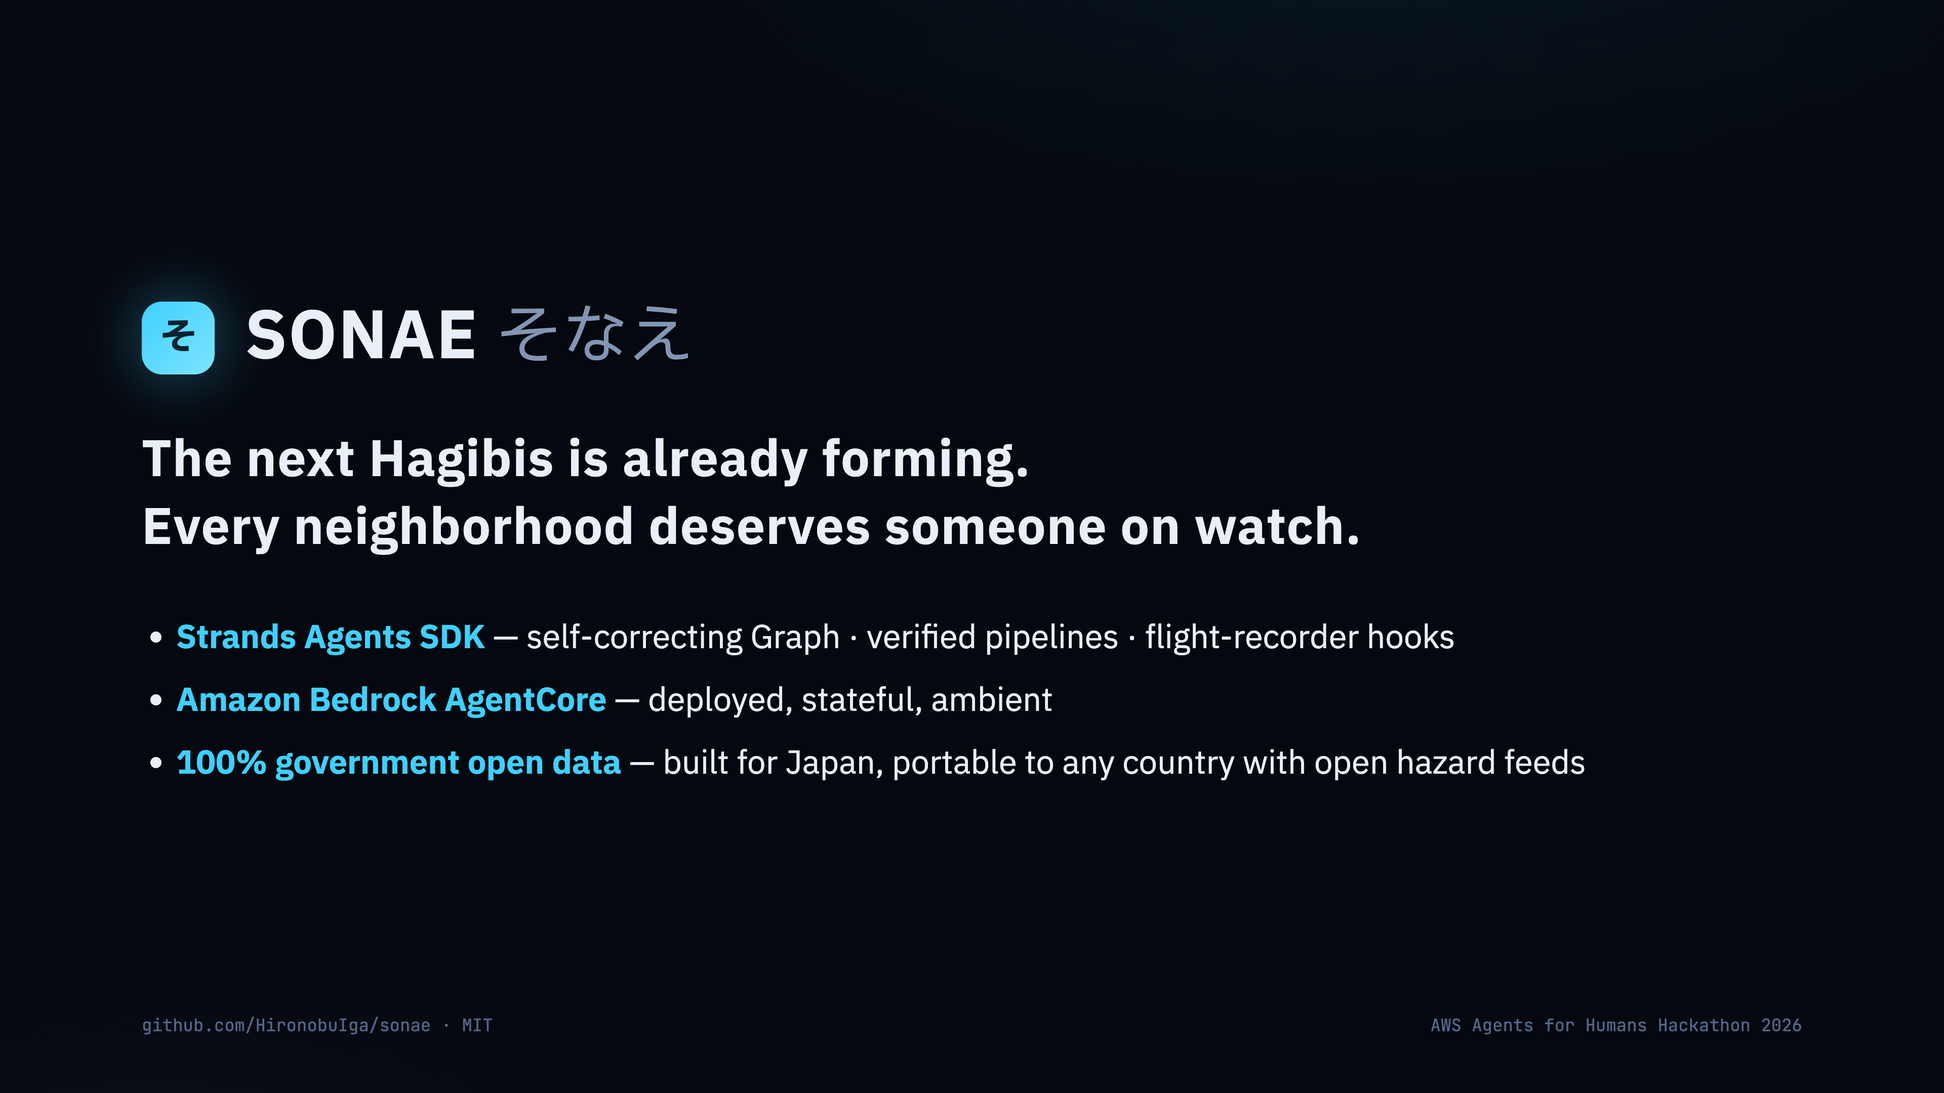
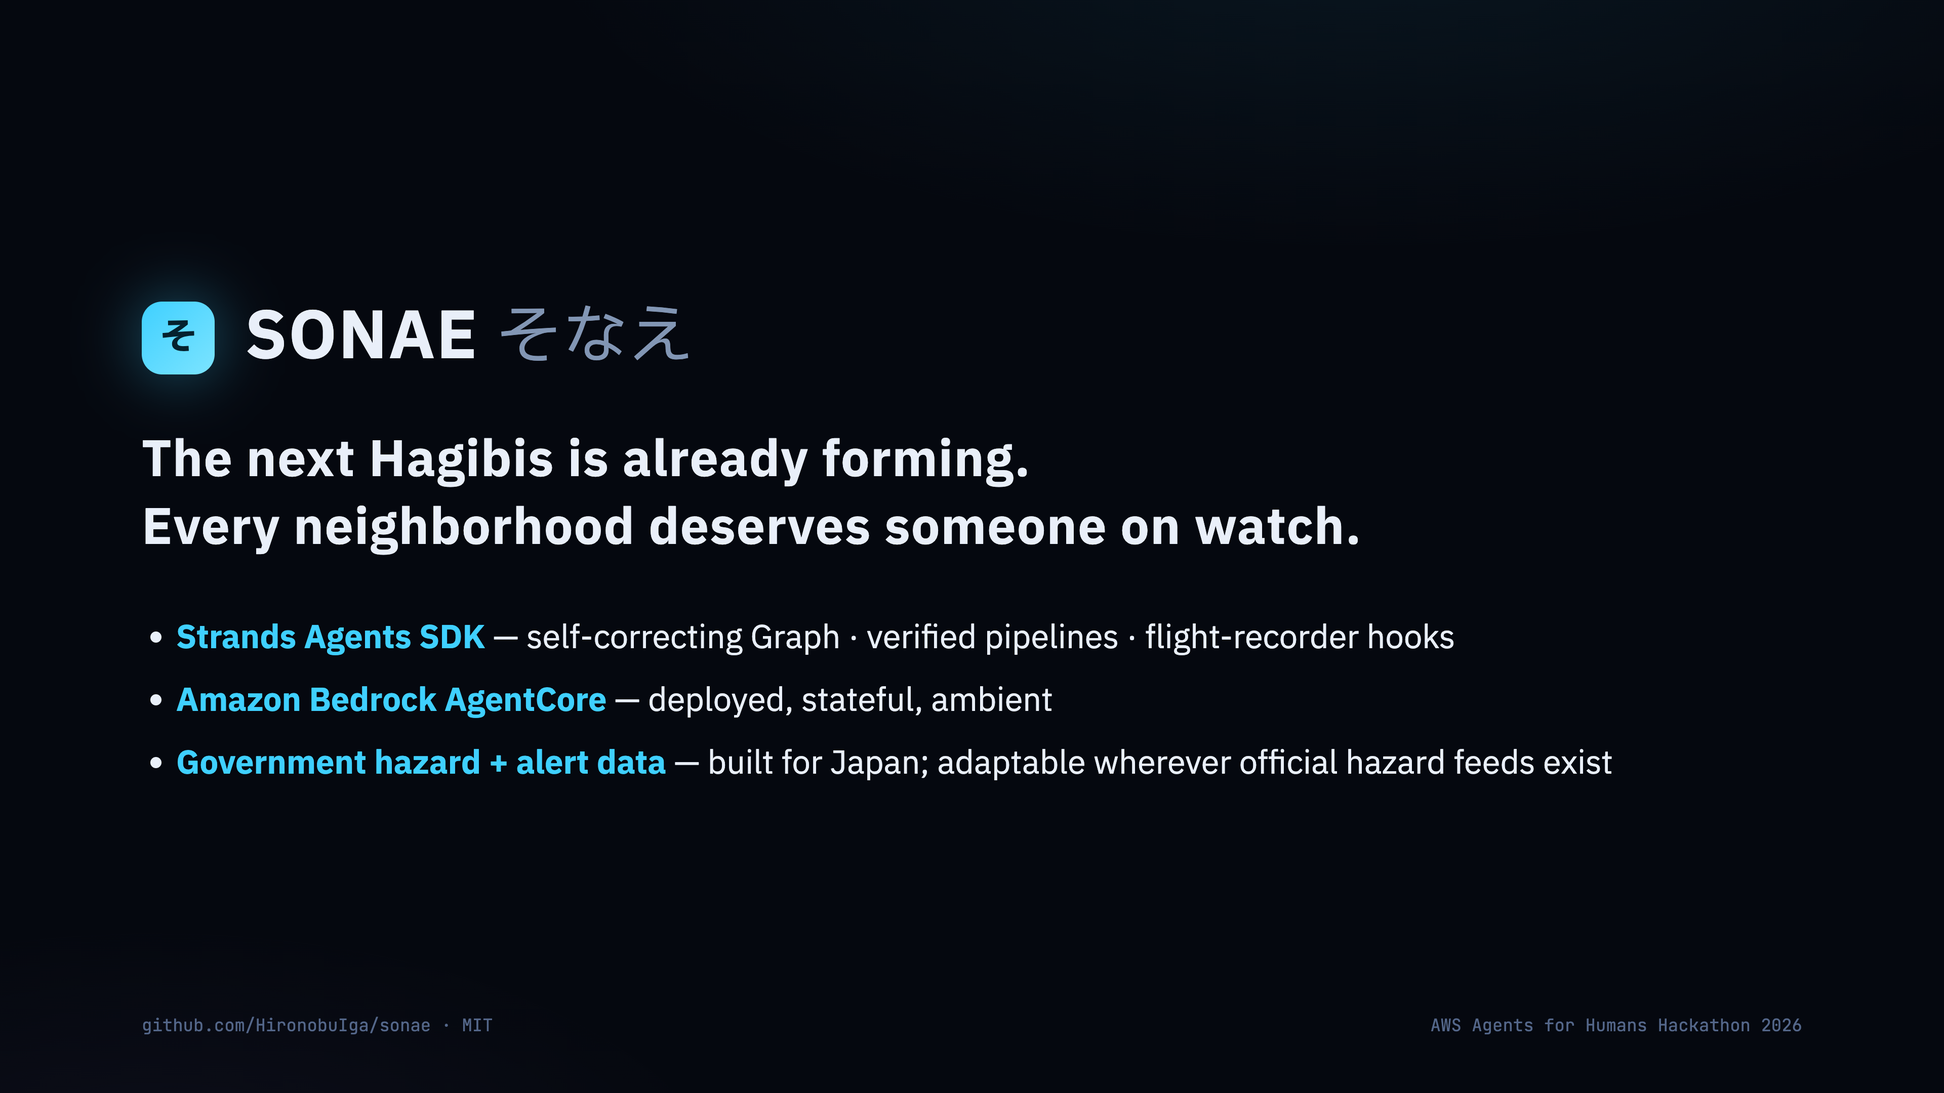
Video v3: fix the claims Codex caught, correct the AWS diagram, add the beat
An independent review of the video (script, slides, and the committed artifacts
they quote) found four claims that would not survive a careful judge, plus a
stale architecture diagram.

Factual corrections:
- 15:31 does not exist. The replay moment is 15:30, so the lead over the 23:40
  emergency order is 8 h 10 m, not 8 h 09 m. Fixed in the narration, slide 5,
  README, Devpost and the demo script.
- 23:40 was not the first instruction to evacuate Hoyasu: the city issued an
  避難勧告 at 18:00. Slide 4 now carries that row and the narration says
  "escalates", so the counterfactual is measured against the real chronology.
- The coordinator report routes the chairman to Kazuo first (he cannot walk),
  then to Isamu, 88. The narration said the 88-year-old was first. Corrected to
  the order the committed report actually produces.
- The level_clamped entry is from an earlier run in the accumulated journal, not
  from the filmed one. Both the narration and slide 6 now say so.
- "None of this is staged" hid that the family is invented and the outcome is a
  counterfactual. s13 now opens "Historical replay, real pipeline, invented
  family", slide 5 labels the card COUNTERFACTUAL · DEMO FAMILY, and slide 6
  says "labeled excerpts" rather than claiming every line is a literal quote.

Scope corrections: "no municipality had issued one" → no Nagano City order for
this district; the 20:50 bulletin reports overtopping that began at 20:23;
[…]

Changed region(s): [[0.0938, 0.6824, 0.8438, 0.7134]]

diff --git a/docs/video/slides.html b/docs/video/slides.html
@@ -66,7 +66,7 @@
     <li>Find which evacuation site is designated for <b>which</b> hazard — they differ</li>
     <li>Negotiate it with your family, then keep it current</li>
   </ul>
-  <h1 style="margin-top:56px;font-size:52px;color:var(--amber)">Homework assigned to every household in Japan.<br>It waits until the river is rising.</h1>
+  <h1 style="margin-top:56px;font-size:52px;color:var(--amber)">Homework Japan asks of every household.<br>It waits until the river is rising.</h1>
 </section>
 
 <!-- 3: who dies -->
@@ -77,52 +77,54 @@
   <h2 style="margin-top:40px;max-width:1500px;line-height:1.7">The hardest case is the one millions live with:<br>
   an aging parent, alone in the family home, hours away.<br>
   <span class="ja">— 東京の息子は、実家の裏の川の水位を知らない。</span></h2>
-  <div class="foot"><span>2019 East Japan Typhoon ≈65% · July 2020 heavy rain ≈79% — Cabinet Office / MHLW</span><span></span></div>
+  <div class="foot"><span>≈65% 2019 East Japan Typhoon · ≈79% July 2020 heavy rain — MHLW 001075647.pdf · Cabinet Office FY2021 白書</span><span></span></div>
 </section>
 
 <!-- 4: the night -->
 <section class="slide" data-n="4" style="justify-content:center">
   <div class="kicker">OCTOBER 12, 2019 — TYPHOON HAGIBIS · CHIKUMA RIVER, NAGANO</div>
   <div class="ts"><span class="time" style="color:var(--amber)">15:30</span>
-    <span class="what">大雨特別警報 — first ever issued for Nagano Prefecture<small>Sunset is at 17:16. This is the last full-daylight window.</small></span></div>
+    <span class="what">大雨特別警報 — first ever issued for Nagano Prefecture<small>Sunset 17:16 (NAOJ). The last full-daylight window.</small></span></div>
+  <div class="ts"><span class="time" style="color:#ffb703">18:00</span>
+    <span class="what">Evacuation advisory (避難勧告) for the riverside, incl. Hoyasu<small>Level 4 equivalent — 2½ hours after the emergency warning.</small></span></div>
   <div class="ts"><span class="time" style="color:var(--red)">23:40</span>
-    <span class="what">Emergency evacuation order (避難指示・緊急)<small>Darkness. Driving rain. Yoshiko's family says her knees triple the walk.</small></span></div>
+    <span class="what">Escalated to emergency evacuation order (避難指示・緊急)<small>Darkness. Yoshiko's family says her knees triple the walk.</small></span></div>
   <div class="ts"><span class="time" style="color:#ff5a5a">01:08</span>
-    <span class="what">The river overtops the bank at Hoyasu — the district floods to roof height<small>Breach announced 06:00. Chronology: Nagano City verification report, pp.24–28</small></span></div>
+    <span class="what">The river overtops the bank at Hoyasu — the district floods to roof height<small>Breach announced 06:00. Nagano City verification report pp.24–28 · damage overview ch.2</small></span></div>
   <h1 style="font-size:46px;margin-top:44px;max-width:1600px">The information was public the whole time.<br>
   <span style="color:var(--cyan)">What families lacked was an agent on watch.</span></h1>
 </section>
 
 <!-- 5: counterfactual -->
 <section class="slide" data-n="5" style="justify-content:center">
-  <div class="kicker">SAME PUBLIC DATA · SAME NIGHT — REPLAYED MINUTE BY MINUTE</div>
+  <div class="kicker">SAME PUBLIC DATA · SAME NIGHT — REPLAYED EVENT BY EVENT</div>
   <div class="vs">
     <div class="card" style="border-color:#7e1f10">
       <h3>WHAT HAPPENED</h3>
       <div class="t" style="color:var(--red)">23:40</div>
-      <p>Emergency evacuation order reaches Hoyasu — in darkness, hours after the river was already overtopping upstream.</p>
+      <p>Emergency order reaches Hoyasu — in darkness, hours after the river was already overtopping upstream. The 18:00 advisory came first.</p>
     </div>
     <div class="card" style="border-color:var(--green)">
-      <h3>SONAE'S FAMILY</h3>
-      <div class="t" style="color:var(--green)">15:31</div>
+      <h3>COUNTERFACTUAL · DEMO FAMILY</h3>
+      <div class="t" style="color:var(--green)">15:30</div>
       <p>Verified, personal push at the emergency warning: <b>「今すぐ避難してください」</b> — grandmother walking to the flood-safe site in daylight.</p>
     </div>
   </div>
-  <h1 style="font-size:48px;margin-top:52px">8 h 09 m of warning lead — grounded in the official record.<br>
-  <span style="font-size:34px;color:var(--dim)">On the plan's own 90–120 min walking allowance, at the shelter by ~17:31 — about six hours before the order.</span></h1>
+  <h1 style="font-size:48px;margin-top:52px">8 h 10 m between the warning and the order — grounded in the official record.<br>
+  <span style="font-size:34px;color:var(--dim)">Counterfactual: leaving at 15:30, the plan's own 90–120 min allowance puts her at the shelter by ~17:30.</span></h1>
 </section>
 
 <!-- 6: verifier moment -->
 <section class="slide" data-n="6" style="justify-content:center">
-  <div class="kicker">THE TRUST LAYER — QUOTED FROM data/store/aoki/watch.json IN THIS REPO</div>
+  <div class="kicker">THE TRUST LAYER — LABELED EXCERPTS FROM data/store/aoki/watch.json IN THIS REPO</div>
   <div class="mono-log" style="font-size:21px;line-height:1.8">
-<span class="c"># 15:30, the pivotal push — the draft cited an order that was never issued</span>
+<span class="c"># 15:30, the pivotal push — the draft cited a Nagano City order for this district</span>
 <span class="bad">verification attempt 1: REJECTED</span> (12 checks)
    <span class="c">unsupported:</span> "Level 4 = <span class="bad">避難指示</span>" in the Cabinet Office citation note
    <span class="c">revision:</span> → "…<span class="ok">no 避難指示 was issued</span>; 大雨特別警報 triggers Level 4 per national guidance"
 <span class="ok">verification attempt 2: APPROVED</span> (12 checks) → <span class="k">3 notifications dispatched [verified ✓]</span>
 
-<span class="c"># 18:00 — the Sentinel claimed Level 5 on a Level 4 advisory (避難勧告)</span>
+<span class="c"># an EARLIER RUN in the same journal, 18:00 — Sentinel claimed Level 5 on a Level 4 advisory</span>
 <span class="bad">level_clamped:</span> sentinel_level <span class="bad">5</span> → supported_level <span class="ok">4</span>
    <span class="c"># a deterministic guard, not a model: the official wording is the ceiling.</span>
    <span class="c"># unclamped, a false Level 5 here would have swallowed the real one at 20:50.</span>
@@ -146,7 +148,7 @@
 
 $ aws bedrock-agentcore invoke-agent-runtime --payload <span class="k">{"action":"watch_cycle", …}</span>
 <span class="ok">{"processed_events": 0, "dispatched": 0, "note": "no new events"}</span>
-<span class="c"># EventBridge heartbeat · zero model tokens on a calm day · state durable in S3</span></div>
+<span class="c"># EventBridge→Lambda heartbeat, verified then paused · zero model tokens when no new events · state in S3</span></div>
   <h2 style="margin-top:40px">Boring is the job. The quiet path is the tested path.</h2>
 </section>
 
@@ -161,7 +163,7 @@ $ aws bedrock-agentcore invoke-agent-runtime --payload <span class="k">{"action"
   <ul class="pts" style="margin-top:44px">
     <li><b>Strands Agents SDK</b> — self-correcting Graph · verified pipelines · flight-recorder hooks</li>
     <li><b>Amazon Bedrock AgentCore</b> — deployed, stateful, ambient</li>
-    <li><b>100% government open data</b> — built for Japan, portable to any country with open hazard feeds</li>
+    <li><b>Government hazard + alert data</b> — built for Japan; adaptable wherever official hazard feeds exist</li>
   </ul>
   <div class="foot"><span>github.com/HironobuIga/sonae · MIT</span><span>AWS Agents for Humans Hackathon 2026</span></div>
 </section>

diff --git a/docs/architecture.html b/docs/architecture.html
@@ -59,7 +59,7 @@
 </head>
 <body>
 <h1><span class="mark">そ</span> SONAE — agent architecture <span style="color:var(--faint);font-size:12px;font-weight:400">Strands Agents SDK · Amazon Bedrock</span></h1>
-<div class="sub">Two verified pipelines over one household memory: a self-correcting planning graph (once, calmly) and an ambient watch loop (every 5 minutes, forever).</div>
+<div class="sub">Two verified pipelines over one household memory: a self-correcting planning graph (once, calmly) and an ambient watch loop (every 5 minutes when enabled).</div>
 
 <div class="grid">
   <div class="lane">
@@ -79,7 +79,7 @@
 
   <div class="lane">
     <h2>WATCH & ACT — VERIFIED PIPELINE</h2>
-    <div class="ja">常駐監視 · EventBridge heartbeat → AgentCore Runtime · replay = same pipeline</div>
+    <div class="ja">常駐監視 · EventBridge Scheduler → Lambda → AgentCore Runtime · replay = same pipeline</div>
     <div class="agent"><div class="ic c1">📡</div><div><b>Feed events</b>
       <small>Live JMA warnings for the home's exact warning area — or the Typhoon Hagibis replay reconstructed minute-by-minute from official post-event records.</small></div></div>
     <div class="arrow">new events only (dedup vs watch state)</div>
@@ -109,7 +109,7 @@
 </div>
 
 <div class="foot">
-  <div class="cloud"><b>Amazon Bedrock</b>Claude Sonnet 4.5 powers every agent; model-agnostic via Strands providers</div>
+  <div class="cloud"><b>Amazon Bedrock</b>Claude Sonnet 4.6 powers every agent; model-agnostic via Strands providers</div>
   <div class="cloud"><b>Bedrock AgentCore Runtime</b>hosts the team; EventBridge Scheduler heartbeat makes the Sentinel ambient</div>
   <div class="cloud"><b>Observability</b>Strands OpenTelemetry traces + per-household flight-recorder journal of every tool call & decision</div>
 </div>

diff --git a/docs/drawio_render.html b/docs/drawio_render.html
@@ -1,0 +1,13 @@
+<!doctype html><meta charset="utf-8">
+<body style="margin:0;background:#fff">
+<script type="text/plain" id="xmlsrc"></script>
+<div class="mxgraph" id="gfx" style="max-width:100%;border:0"></div>
+<script src="https://viewer.diagrams.net/js/viewer-static.min.js"></script>
+<script>
+fetch("architecture-aws.drawio").then(r=>r.text()).then(xml=>{
+  const cfg = {highlight:"#0000ff", nav:false, resize:true, toolbar:"", edit:null, xml:xml};
+  const el = document.getElementById("gfx");
+  el.setAttribute("data-mxgraph", JSON.stringify(cfg));
+  GraphViewer.processElements();
+});
+</script>

diff --git a/docs/video/build_video.py b/docs/video/build_video.py
@@ -23,7 +23,7 @@ AUDIO = HERE / "audio"
 WORK = HERE / "work"
 OUT = HERE / "sonae-demo.mp4"
 
-GAP = 0.45  # breathing room between segments (s)
+GAP = 0.8  # breathing room between segments (s) — a beat to absorb each one
 LEAD_IN = 0.6
 MIN_PER_VISUAL = 2.4
 FPS = 30

diff --git a/docs/video/shotlist.md b/docs/video/shotlist.md
@@ -1,0 +1,88 @@
+# Demo video shot list (generated — do not edit by hand)
+
+Runtime 4:57. Each segment's narration time is split evenly across its visuals.
+`slide_*` are rendered from slides.html; `cap_*` are screenshots of the live
+dashboard from the committed replay run.
+
+## s01 — 0:00 to 0:14  (13.5s, 35 words, 155 wpm)
+- [0:00] `slide_1.png` held 14.3s
+
+> Half past three, the day Typhoon Hagibis reached Nagano. Sonae tells one family to leave now. The city's emergency order for their street comes eight hours later. This is the agent team that stands watch.
+
+## s02 — 0:14 to 0:33  (17.6s, 45 words, 153 wpm)
+- [0:14] `slide_2.png` held 18.4s
+
+> Japan urges every household to prepare a personal evacuation timeline: who does what, at which official alert level. That means reading the hazard map for your address, finding which site is designated for which disaster, and agreeing who acts. The work itself is the barrier.
+
+## s03 — 0:33 to 0:48  (14.6s, 45 words, 185 wpm)
+- [0:33] `slide_3.png` held 15.4s
+
+> And the people least able to do that work are the ones who die. In Japan's recent floods, sixty five to eighty percent of the dead were aged sixty five or over. Often a parent, alone in the family home, hours away from their children.
+
+## s04 — 0:48 to 1:11  (22.2s, 54 words, 146 wpm)
+- [0:48] `slide_4.png` held 23.0s
+
+> Typhoon Hagibis, twenty nineteen. At fifteen thirty, Nagano's first ever emergency heavy rain warning. The riverside advisory came at eighteen hundred; the emergency order at twenty three forty, in darkness. At eight past one the river came over the bank at Hoyasu, and the district flooded to roof height. All of it was public.
+
+## s05 — 1:11 to 1:34  (21.8s, 49 words, 135 wpm)
+- [1:11] `cap_modal.png` held 7.5s
+- [1:19] `cap_plan.png` held 7.5s
+- [1:26] `cap_approve.png` held 7.5s
+
+> This is Sonae. One address, and a few sentences about your family. A Cartographer reads the statutory hazard maps. A Planner drafts the timeline, tuned to a grandmother's knees. An adversarial Verifier re-derives every claim from official data. You approve it once. From here, Sonae is authorized to act.
+
+## s06 — 1:34 to 1:46  (11.7s, 28 words, 143 wpm)
+- [1:34] `cap_l1.png` held 12.5s
+
+> Now the replay, driven event by event from the official record. The day before landfall: level one. Charge the phone. Pack the medication. While the sky is clear.
+
+## s07 — 1:46 to 2:06  (19.1s, 45 words, 142 wpm)
+- [1:46] `cap_l2.png` held 19.9s
+
+> Saturday afternoon, the river reaches advisory levels. Level two. And here the verifier earns its keep: the draft told the son to skip level three, then escalate to level three. A contradiction, in an instruction read while frightened. Rejected, corrected to level four, then sent.
+
+## s08 — 2:06 to 2:39  (31.8s, 79 words, 149 wpm)
+- [2:06] `cap_l4.png` held 16.3s
+- [2:22] `cap_l4_phones.png` held 16.3s
+
+> Half past three. The emergency heavy rain warning — formally level five for rainfall. But level five means protect yourself where you are, and the guidance is to finish evacuating while you can. So Sonae pushes the plan's level four step, approved in advance by the family. Complete the evacuation now. The draft cited a Nagano City order for this district; none existed yet. Rejected, corrected, sent. Sunset is seventeen sixteen — there is still light to walk in.
+
+## s09 — 2:39 to 2:59  (19.1s, 55 words, 173 wpm)
+- [2:39] `cap_standby.png` held 19.9s
+
+> Then, discipline. Bulletins the plan already covers; the Sentinel stands by through all of them. It is not always right alone. In an earlier run kept in the same journal, it read this level four advisory as level five — and a deterministic guard clamped it down. The model does not get the last word.
+
+## s10 — 2:59 to 3:13  (13.8s, 33 words, 143 wpm)
+- [2:59] `cap_l5.png` held 14.6s
+
+> The eight fifty bulletin reports upstream overtopping that began at twenty past eight. Level five. Confirm everyone is out, and nobody goes back in. The dashboard opens a check-in for each family member.
+
+## s11 — 3:13 to 3:33  (19.5s, 53 words, 163 wpm)
+- [3:13] `cap_breach.png` held 10.1s
+- [3:23] `slide_5.png` held 10.1s
+
+> Twenty three forty: the emergency evacuation order. At eight past one, the river came over the bank at their doorstep. Sonae's verified push went out at fifteen thirty — eight hours and ten minutes earlier. On the plan's own allowance, a family leaving then reaches the shelter by half past five, in daylight.
+
+## s12 — 3:33 to 3:50  (16.2s, 36 words, 134 wpm)
+- [3:33] `cap_circle.png` held 17.0s
+
+> After the water, Japanese neighborhoods confirm safety with paper name lists. Sonae replaces the paper, not the neighbors. It hands the chairman an ordered route: first Kazuo, who cannot walk; then Isamu, eighty eight, still unconfirmed.
+
+## s13 — 3:50 to 4:13  (21.6s, 51 words, 141 wpm)
+- [3:50] `slide_6.png` held 22.4s
+
+> Historical replay, real pipeline, invented family — every excerpt here is committed in the repository. An alert app broadcasts the same words to everyone. Sonae holds a plan the family approved, and binds official signals to it. Unverified prose is never sent. The official signal is relayed verbatim rather than silenced.
+
+## s14 — 4:13 to 4:41  (27.6s, 63 words, 137 wpm)
+- [4:13] `slide_9.png` held 9.5s
+- [4:22] `slide_10.png` held 9.5s
+- [4:32] `slide_7.png` held 9.5s
+
+> Under the hood: a self-correcting Strands graph builds the plan, a verified pipeline runs the watch, typed JSON between agents, flight recorder hooks on every tool call. Deployed on Amazon Bedrock AgentCore, state synced to S3, heartbeat through EventBridge and Lambda — verified, then paused. With no new events a cycle exits before a model is created. Zero tokens. Boring is the job.
+
+## s15 — 4:41 to 4:57  (14.6s, 35 words, 144 wpm)
+- [4:41] `slide_8.png` held 15.4s
+
+> Every hazard and alert input comes from public government data. Built for Japan, and adaptable wherever official hazard feeds exist. Sonae. Because the next Hagibis is already forming, and every family deserves someone on watch.
+
+**Total: 4:57 · 706 words · average 143 wpm**

diff --git a/README.md b/README.md
@@ -206,7 +206,7 @@ city-specific code.
 This is a counterfactual reconstructed from the replay, not an observed outcome for a real household.
 Run the replay and watch the timestamps. Nagano City's evacuation order for the riverside districts
 came at **23:40**, in darkness. In the replay, the 大雨特別警報 lands at **15:30** and Sonae's verified
-push goes out at **15:31** — **8 hours 9 minutes of warning lead** before the official order, and the
+push goes out at the same **15:30** replay moment — **8 hours 10 minutes of warning lead** before the emergency order, and the
 last clearly-daylight window of the day (sunset was 17:16 JST). The approved plan allows Yoshiko
 **90–120 minutes** to walk the 2.63 km to her flood-designated shelter, so on that timeline she is inside
 it around **17:31** — roughly a **6-hour safety margin** ahead of the order that the real residents of

diff --git a/docs/demo-script.md b/docs/demo-script.md
@@ -85,7 +85,7 @@ through the moments. Pace: linger where it matters.
   banks upstream. Level 5 — final confirmation that everyone is out, and no one goes back."
 - **10/12 23:40** (pause, let it land): "23:40. The official evacuation order. Darkness, driving
   rain. This is when the real residents of Hoyasu were told to leave. Sonae's push went out at
-  **15:31** — **eight hours and nine minutes** of warning lead, from the same public information.
+  **15:30** — **eight hours and ten minutes** of warning lead, from the same public information.
   The plan allows Yoshiko 90–120 minutes on foot, so on this timeline she is inside the shelter around
   half past five: about **six hours of safety margin**. To be clear about what you're watching —
   this is a counterfactual from the replay, not something that happened to anyone that night."

diff --git a/docs/devpost.md b/docs/devpost.md
@@ -103,7 +103,7 @@ decisions.
 - **Honesty in the demo.** We refused to stage a fictional disaster. Reconstructing the real
   official timeline made the demo stronger — and it is labelled for what it is: a counterfactual
   from the replay, not something that happened to anyone. In it, the verified push goes out at
-  **15:31**, 8 hours 9 minutes of warning lead ahead of the 23:40 order; with the plan's 90–120 minute
+  **15:30**, 8 hours 10 minutes of warning lead ahead of the 23:40 emergency order; with the plan's 90–120 minute
   walking allowance, grandmother is inside the shelter around 17:31, roughly a 6-hour safety margin.
 
 ## Accomplishments
